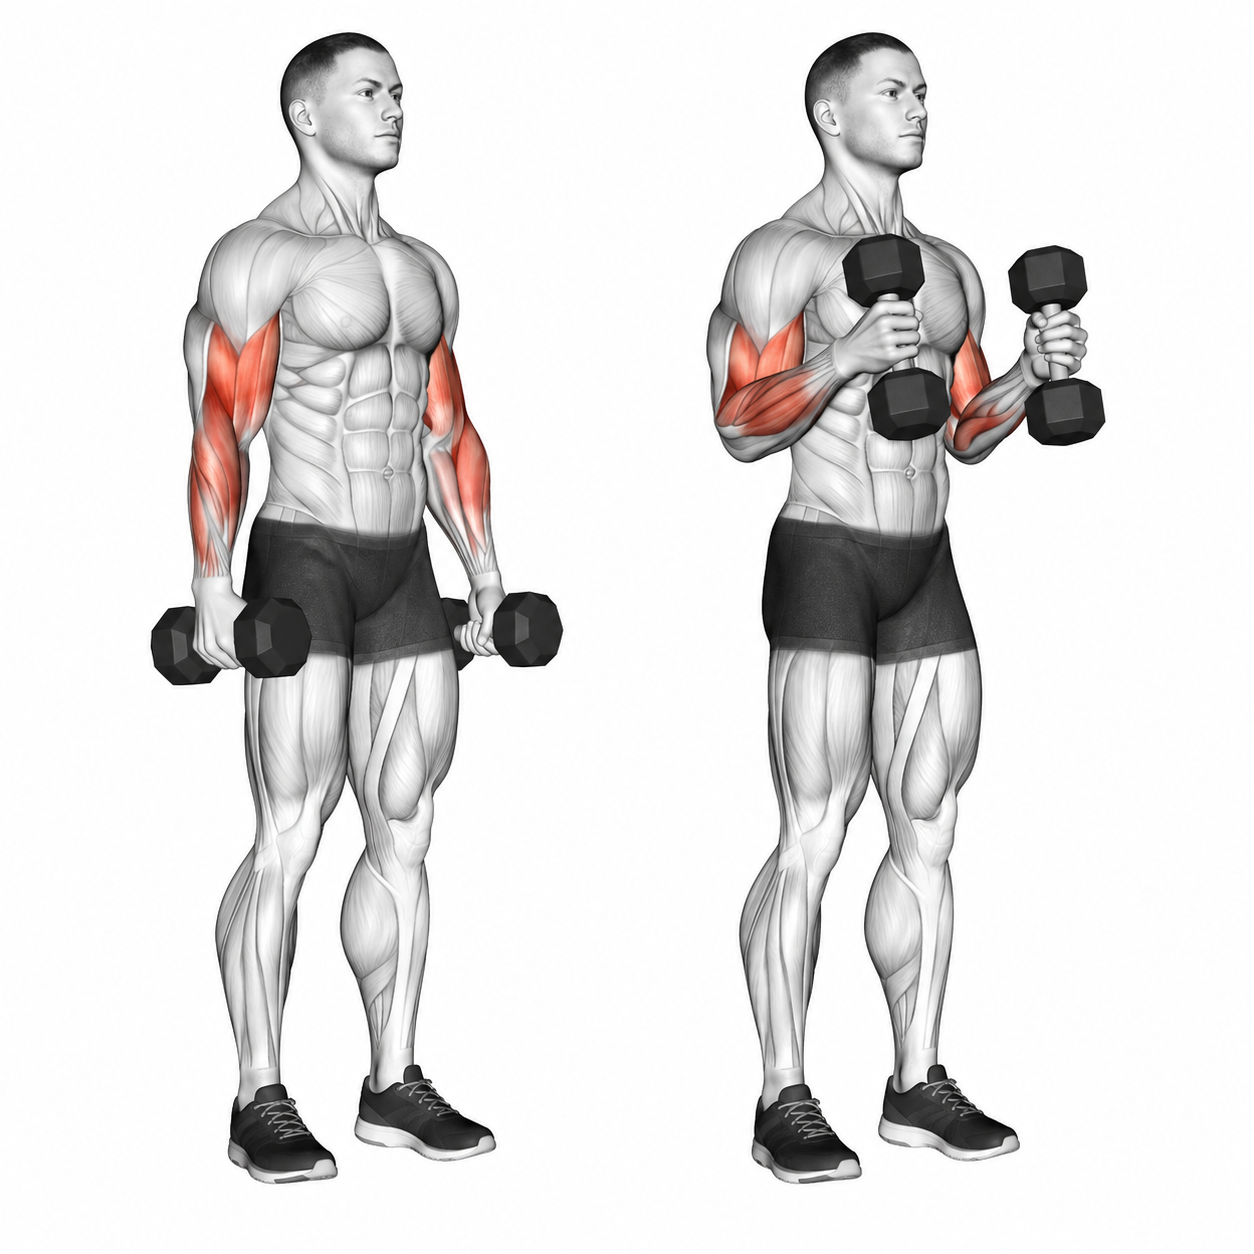
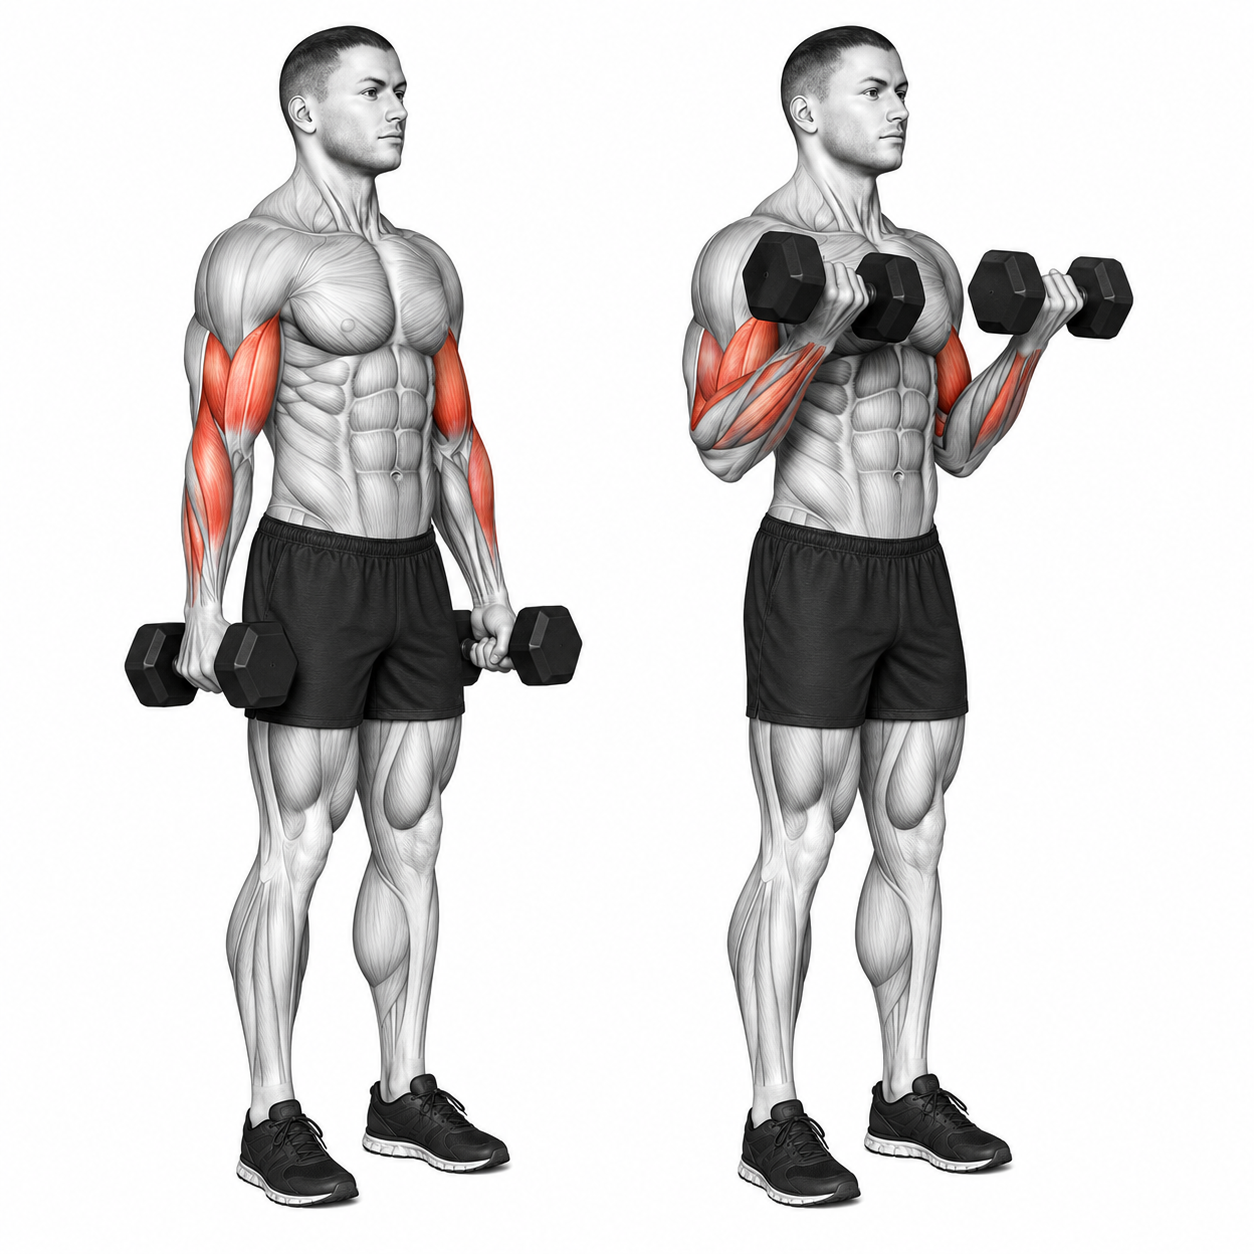
isim düzeltme

Changed region(s): [[0.5287, 0.0, 0.9019, 0.9641], [0.0933, 0.0, 0.4665, 0.9641]]

diff --git a/fitness/index.html b/fitness/index.html
@@ -528,11 +528,11 @@
         <div class="exercise-grid">
           <article class="exercise-card" data-category="omuz">
             <div class="exercise-image">
-              <img src="/fitness/exercises/shoulder-press.png" alt="Shoulder Press" loading="lazy">
+              <img src="/fitness/exercises/shoulder-press-machine.png" alt="Shoulder Press Machine" loading="lazy">
             </div>
             <div class="exercise-content">
               <span>Omuz</span>
-              <h3>Shoulder Press</h3>
+              <h3>Shoulder Press Machine</h3>
               <p>Omuz ve triceps kuvveti için temel dikey itiş.</p>
             </div>
           </article>
